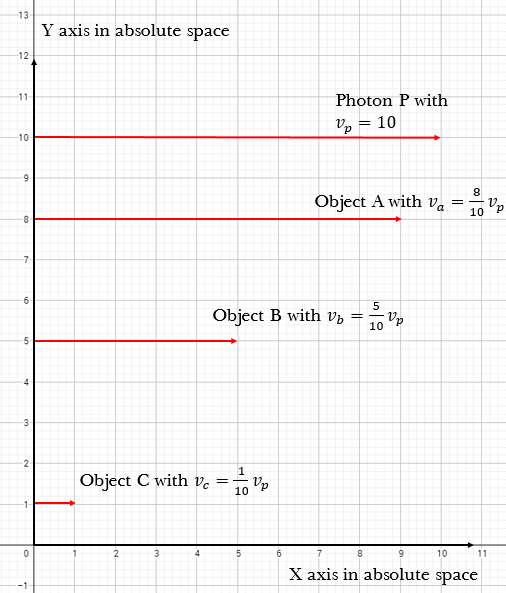
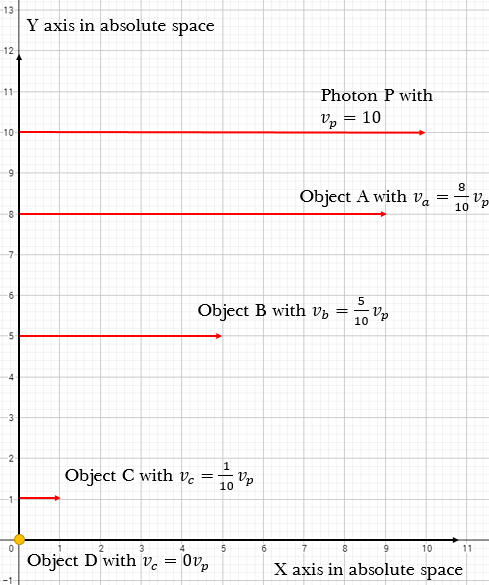
Need to translate.

diff --git a/README.md b/README.md
@@ -86,13 +86,18 @@ The first postulate of special relativity is the principle of relativity what Ga
 
 In fact, the above equation reflects the absolute relational nature of space and time. It is the most fundamental property of our universe. Every *something* is ruled by this equation without exception. It may sound craziest silly thing ever heard by readers but I will try to explain it step by step from now on.
 
-For those who wonder the meaning of Equation 2, it would be helpful to understand the difference between object velocity and (implicit) space/time relation from Figure 1.
+
+For those who wonder about the meaning of Equation 2, it would be helpful to understand the difference between object velocity and (implicit) space/time relation from Figure 1.
 
 ![alt text](./images/velocity_relative_to_photon.png "Logo Title Text 1")
 
-> Figure 1. Objects moving parallel with different constant velocity relative to photon in a single absolute space and time interval
+> Figure 1. A conceptual diagram for the notion of Absolute moving and absolute not-mo  ving. In this diagram, all end of arrow of all objects including photon is drawn to be located at a distance per a unit time tick in absolute time domain. For object B, its velocity can be calculated as $\frac{1}{2}v_p$ if B moves half of distance in fixed absolute space what photon travel within same amount of time, tick, with one assumption of the existence of absolute simultaneity.
 
-In the above figure, it is assumed that there are all 4 particles moving horizontal direction with a constant velocity in absolute space which does neither stretch nor shrink in geometric sense by any external influence. Initially, they are all positioned x=0 at absolute time $T_a=0$. As time flows, object P which is a massless particle moves at light speed. The figure 1 shows clearly that other three (massive) objects moves at constant velocity relative to photon P, $\frac{8}{10}v_p$ for object A, $\frac{5}{10}v_p$ for object A, and $\frac{1}{10}v_p$ for object A.
+In the above figure, it is assumed that there are all 4 particles moving horizontal direction with a constant velocity in absolute space which does neither stretch nor shrink in geometric sense by any external influence. Initially, they are all positioned x=0 at absolute time $T_a=0$ tick. As time flows, object P which is a massless particle moves at light speed. The figure 1 shows clearly that other three (massive) objects moves at constant velocity relative to photon P, $\frac{8}{10}v_p$ for object A, $\frac{5}{10}v_p$ for object A, and $\frac{1}{10}v_p$ for object A. It should be noted that those objects including photon are all intentionally shown to be located at the end of their arraow in the figure 1 after just one time tick.
+
+(부연설명. 그림1에 보여진 모든 물체(photon, A,B,C,D)들의 속도값들이 논리적으로 참이 되려면 두가지 가정이 필요하다. 첫째는 그림상의 공간은 절대적인 공간이어야 한다. 이말은 어떠한 에너지 입자의 운동,위치에 의해 공간이 왜곡되지 않고 고정되어야 한다는 것을 의미한다. 두번째 뉴튼의 절대시간의 흐름 개념이 존재한다고 보는 것이다. 모든 에너지 입자에게 동일한 비율로 흐르는 절대 시간이 존재하는 것을 믿는 것이 중요하다. 이 두가지 가정을 참이라고 간주하면 그림에서의 물체들의 상대속도값들이 논리적으로 참이 된다. 빛입자가 절대 시간공간에서의 단위시간 (1 tick)동안 10이라는 공간거리를 이동했다고 생각해보자. 마찬가지로 물체A가 1 tick동안 빛의 이동거리의 8/10만큼 이동했다면 물체A의 빛에대한 상대 속도는 $\frac{8}{10}v_p$ 가 된다.
+
+이 두가지 핵심적인 가정이 아인슈타인의 이론에서는 부정되고 정설이 되어 있지만 아인슈타인의 과거 유산을 뛰어넘기 위해서는 이부분에 대해 밑바닥부터 재점검해 봐야 한다. 그리고 그 끝은 이어질 내용에서 분명해질 것이지만 동시성의 절대성이 존재에 대한 인정으로 이어질것이다.)
 
 Here is one crucial thing to think about philosophically of which importance cannot be exaggerated more. It is about flaw in Einstein's view denying absolute space and time. Since Galileo, every object moving constant speed can be considered as either stationary or moving frame with regard to other inertial reference frame. During many generations, this view has been logically valid without doubt but it has a big problem. The problem is that multiplication cannot convert the inertial reference from of object from stationary to moving logically. Recall that multiplication any number with 0 always produces 0. If you put an inertial reference frame of object as stationary which is zero velocity, there is logically no way to change it as moving by using multiplication only. In mathematical/philosophical sense, this interchangeability does not make sense at all. If one is allowed to use only velocity relative to photon, i.e. fraction to light speed, then he/she will soon recognize that it is impossible to make a non-zero fraction to light speed from zero velocity by using only multiplication.
 
